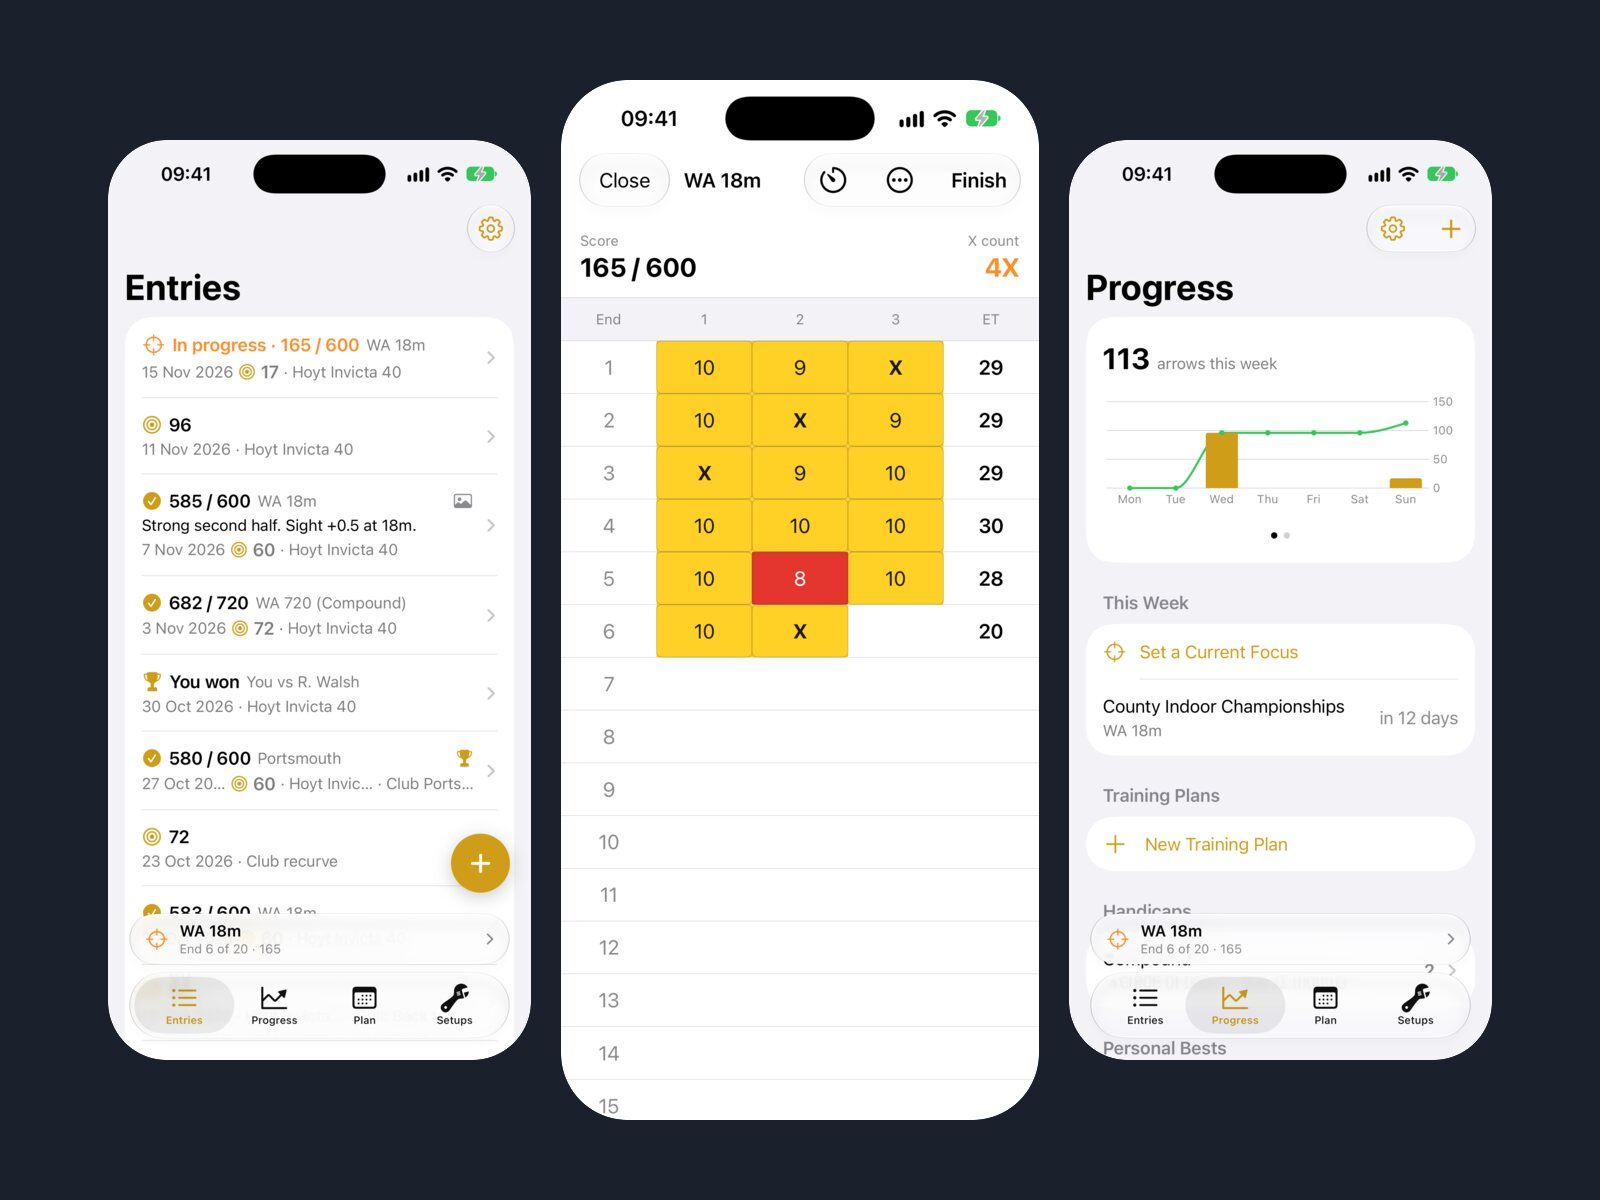
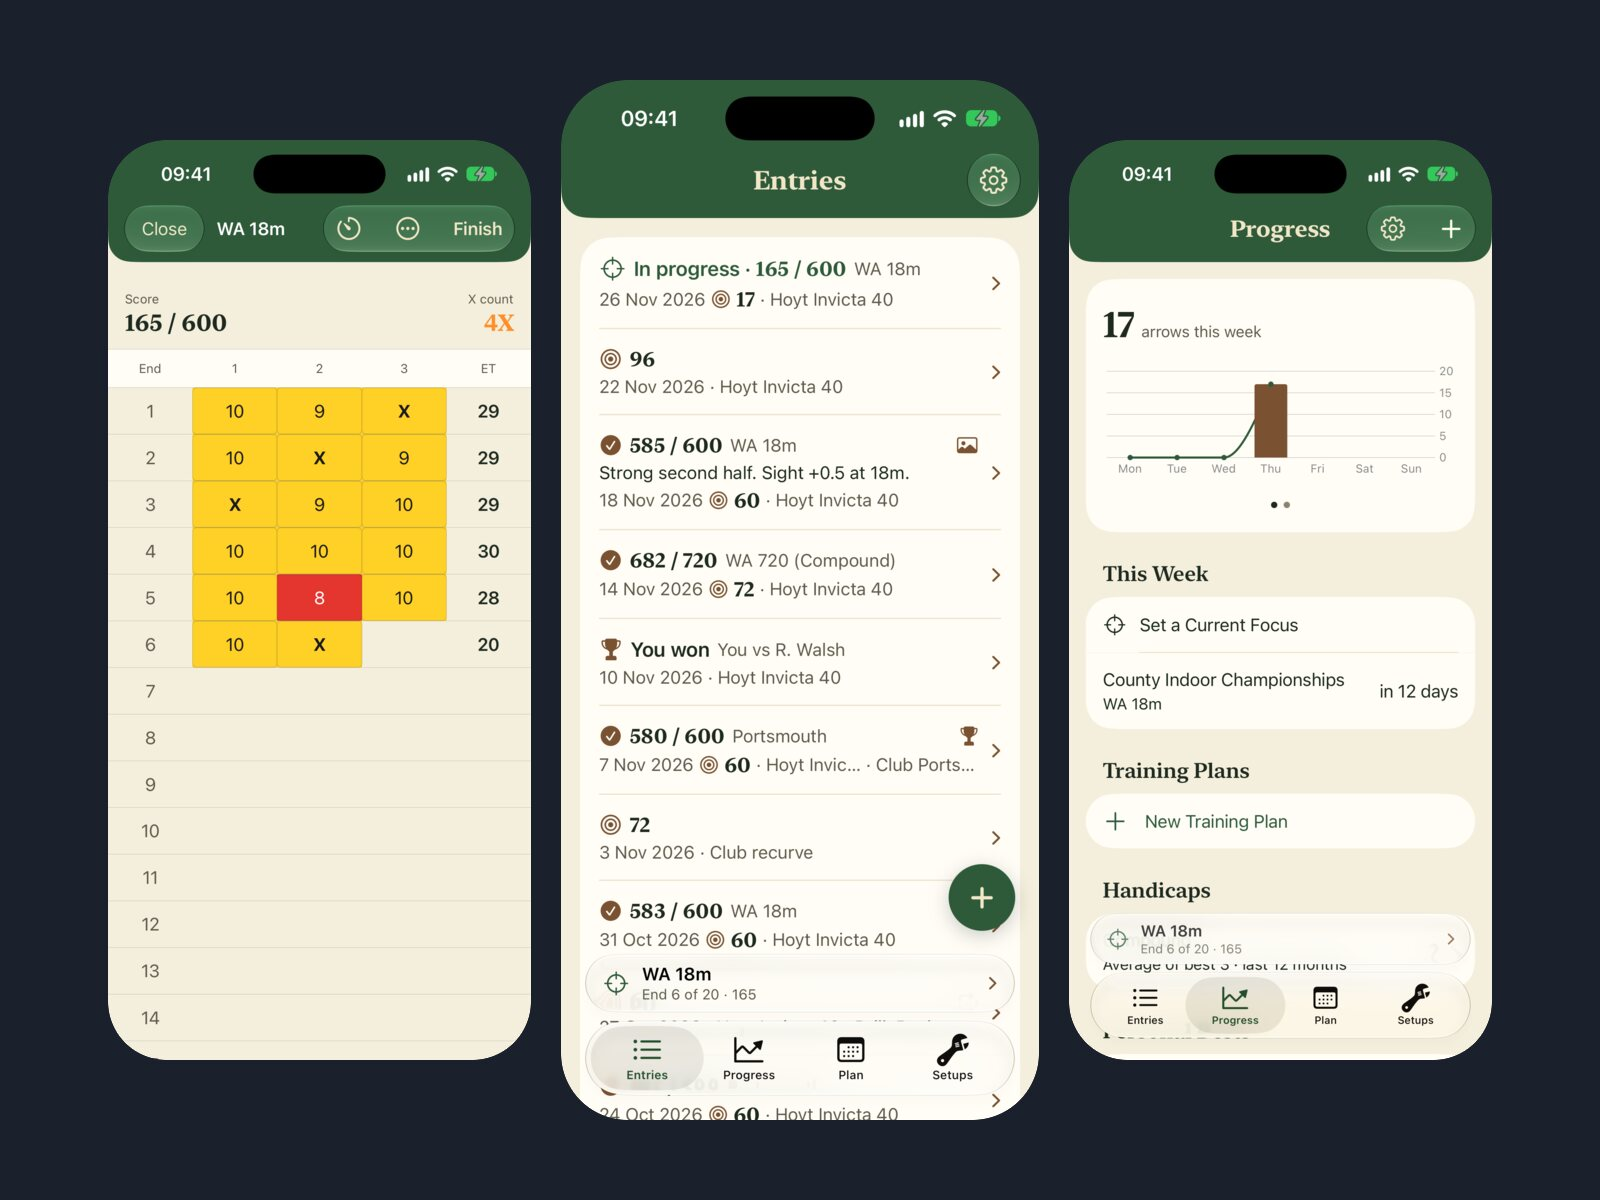
content: Bogha work image in the app's new look

diff --git a/work/bogha.md b/work/bogha.md
@@ -7,7 +7,7 @@ description: "An archery training app for iPhone and Apple Watch, built in Swift
 meta: iOS · watchOS · own product · 2026
 image: /assets/img/social/bogha.png
 hero: /assets/img/work/bogha.jpg
-hero_alt: "Three Bogha iPhone screens: the entries list, a live WA 18m scorecard and the weekly progress chart"
+hero_alt: "Three Bogha iPhone screens: a live WA 18m scorecard, the entries list and the weekly progress chart"
 facts:
   - label: Role
     value: Design, build and ship, solo
